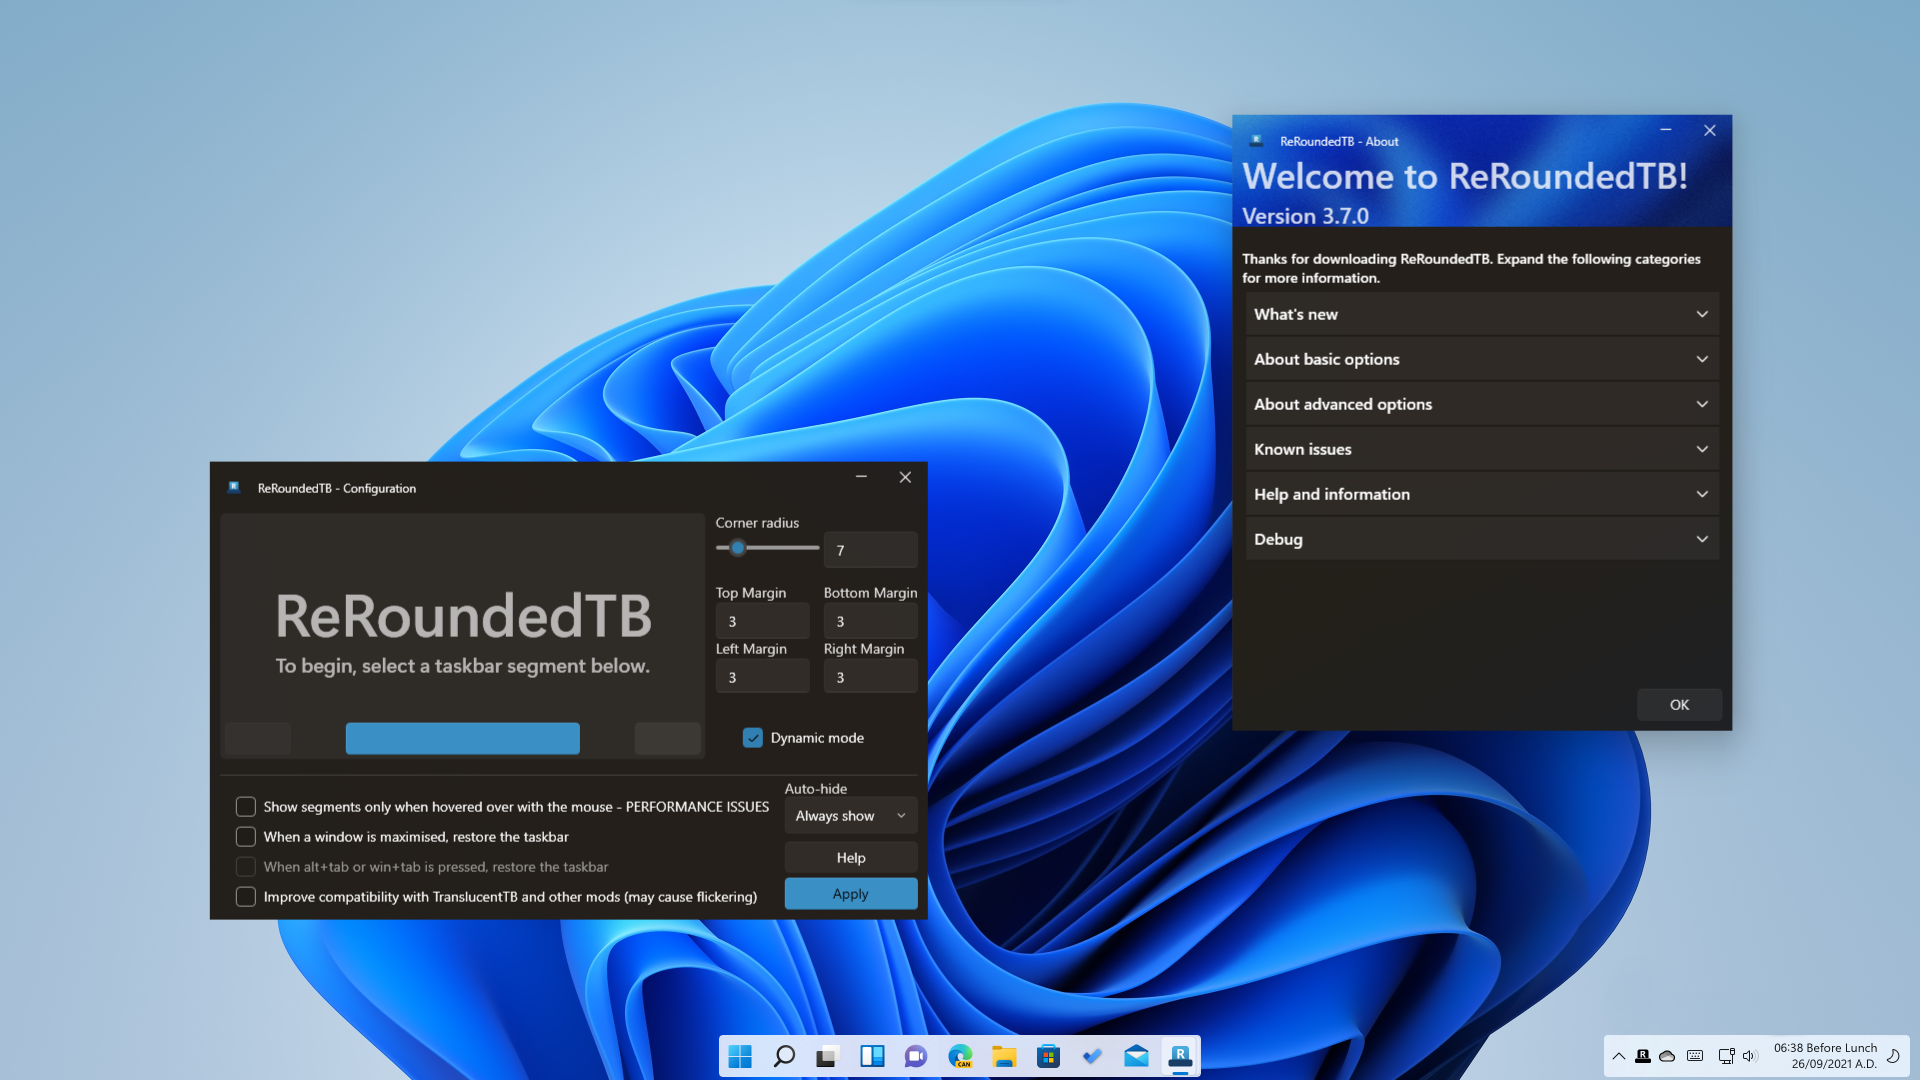
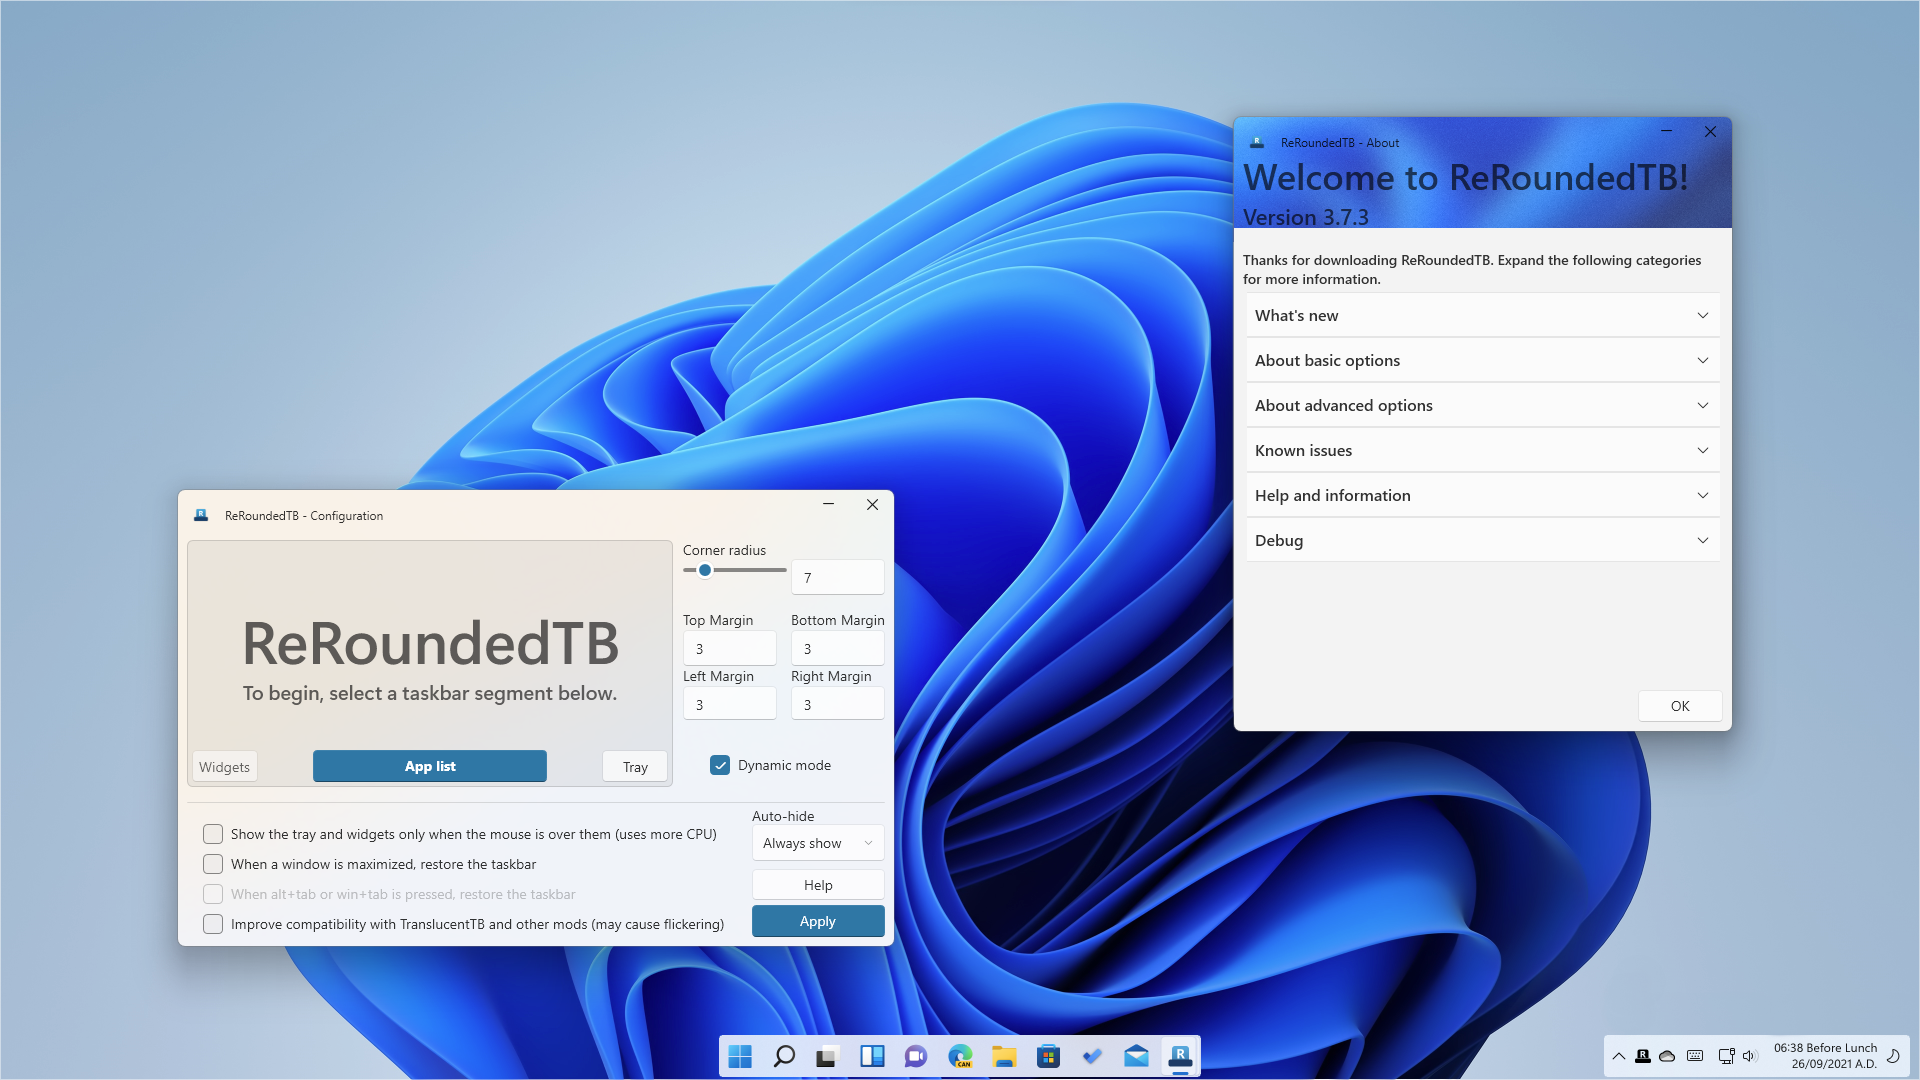
README: update screenshot to 3.7.3

diff --git a/docs/harness/smoke-2026-10-09.md b/docs/harness/smoke-2026-10-09.md
@@ -2,41 +2,41 @@
 
 Run on Windows 11 (build 26200), two monitors (2560x1440), COMODO with the CI exe allowed (uncontained: no `COMODO:DefaultSandBox:` window classes). Input was driven by scripts (synthetic mouse, SendKeys, UI Automation). Light mode unless noted. The owner's `rtb.json` was backed up and restored afterwards (hash verified); the startup shortcut was not touched.
 
-Builds, all CI-built and attested (`gh attestation verify`, exit 0): `f6dc255`, `81ab49f`, `eeb7109` (final). The failures found were fixed and retested on the build listed.
+Builds, all CI-built and attested (`gh attestation verify`, exit 0): `e06cd22`, `5d4ee21`, `69c45be` (final). The failures found were fixed and retested on the build listed.
 
 | # | Result | Build | Evidence / notes |
 |---|---|---|---|
 | 1 | Pass | all three | `gh attestation verify` exit 0 |
-| 2 | Pass | eeb7109 | Taskbar shaped; tray icon black glyph on light; UIA tooltip "ReRoundedTB - active" with no Win+F2 warning (hotkey registered); right-click menu in the specified order. Win+F2 itself not pressed (dynamic mode off) |
-| 3 | Pass | f6dc255 | Bottom margin 3→5, Apply, restart: 5 in `rtb.json` and in the UI |
-| 4 | Pass | f6dc255 | "Top margin must be a whole number from -10000 to 10000. Nothing was applied."; focus returned to Top margin; file unchanged |
-| 5 | Pass | f6dc255 | Tab: segments → corner radius → slider → margins → Dynamic → options → Auto-hide → Help → Apply (disabled box skipped). Alt+T/Alt+R/Alt+B work. Slider arrows 7→9→7, text box follows |
-| 6 | Pass | f6dc255 | Second launch exit 0, one process, settings window shown. Observation: shown behind the active window (foreground lock), not in front |
-| 7 | Pass | f6dc255 | Pause: both taskbars lose the region. Shell reports the "paused" tooltip text (the visible tooltip wasn't captured) |
-| 8 | Pass | 81ab49f | Dialog wording correct; No is the default (blue border); No: file hash unchanged; Yes: defaults saved (7/3/3/3/3, dynamic off, fill options on) and shown in the UI; taskbar reshaped. The dialog is csrss-owned (`DefaultDesktopOnly`), so it was answered with `BM_CLICK` (UIPI blocks synthetic clicks) |
-| 9 | **Fail → fixed** | eeb7109 | Before: after an Explorer restart the tray icon was gone (WPF-UI ignores `TaskbarCreated`), and Explorer replaced the region with a plain rectangle ~1 s after ReRoundedTB shaped it. After: icon back ("active", menu works); region re-asserted at 5.9 s and still rounded 25 s later |
-| 10 | Pass | 81ab49f | First close: one-time notice shown (csrss-owned, not foreground); flag saved; second close: no notice |
-| 11 | **Fail → fixed** | f6dc255, eeb7109 | Before: Tray > Close with the settings window open showed the "still running in the tray" notice and waited on it before closing. After: closes at once, both taskbars restored, no dialog |
+| 2 | Pass | 69c45be | Taskbar shaped; tray icon black glyph on light; UIA tooltip "ReRoundedTB - active" with no Win+F2 warning (hotkey registered); right-click menu in the specified order. Win+F2 itself not pressed (dynamic mode off) |
+| 3 | Pass | e06cd22 | Bottom margin 3→5, Apply, restart: 5 in `rtb.json` and in the UI |
+| 4 | Pass | e06cd22 | "Top margin must be a whole number from -10000 to 10000. Nothing was applied."; focus returned to Top margin; file unchanged |
+| 5 | Pass | e06cd22 | Tab: segments → corner radius → slider → margins → Dynamic → options → Auto-hide → Help → Apply (disabled box skipped). Alt+T/Alt+R/Alt+B work. Slider arrows 7→9→7, text box follows |
+| 6 | Pass | e06cd22 | Second launch exit 0, one process, settings window shown. Observation: shown behind the active window (foreground lock), not in front |
+| 7 | Pass | e06cd22 | Pause: both taskbars lose the region. Shell reports the "paused" tooltip text (the visible tooltip wasn't captured) |
+| 8 | Pass | 5d4ee21 | Dialog wording correct; No is the default (blue border); No: file hash unchanged; Yes: defaults saved (7/3/3/3/3, dynamic off, fill options on) and shown in the UI; taskbar reshaped. The dialog is csrss-owned (`DefaultDesktopOnly`), so it was answered with `BM_CLICK` (UIPI blocks synthetic clicks) |
+| 9 | **Fail → fixed** | 69c45be | Before: after an Explorer restart the tray icon was gone (WPF-UI ignores `TaskbarCreated`), and Explorer replaced the region with a plain rectangle ~1 s after ReRoundedTB shaped it. After: icon back ("active", menu works); region re-asserted at 5.9 s and still rounded 25 s later |
+| 10 | Pass | 5d4ee21 | First close: one-time notice shown (csrss-owned, not foreground); flag saved; second close: no notice |
+| 11 | **Fail → fixed** | e06cd22, 69c45be | Before: Tray > Close with the settings window open showed the "still running in the tray" notice and waited on it before closing. After: closes at once, both taskbars restored, no dialog |
 | 12 | Not run | n/a | Needs a debug build with a forced exception; covered at runtime in round 2 |
-| 13 | **Fail → fixed** | f6dc255, 81ab49f | Light mode measured on screen: labels ~3.1:1, heading 2.24:1, dimmed segment 4.43:1, white on brand blue 4.32:1. After: 11.8, 5.42, 5.32, 4.88. Dark: 16.4, 8.58, 7.10; accent 5.91 (black text). A live light→dark switch left the light accent with black text (4.30:1); fixed in 81ab49f and verified both ways live. The tray glyph swapped black↔white while paused (L-F5). Measured over one wallpaper only |
-| 14 | Pass | eeb7109 | No `rtb.json`: only the Help window shows; after OK the settings window shows, the taskbar is shaped, and the tray icon is present |
-| 15 | Pass | f6dc255 | Hidden window: one left-click shows it in front, menu reads "Hide ReRoundedTB" |
+| 13 | **Fail → fixed** | e06cd22, 5d4ee21 | Light mode measured on screen: labels ~3.1:1, heading 2.24:1, dimmed segment 4.43:1, white on brand blue 4.32:1. After: 11.8, 5.42, 5.32, 4.88. Dark: 16.4, 8.58, 7.10; accent 5.91 (black text). A live light→dark switch left the light accent with black text (4.30:1); fixed in 5d4ee21 and verified both ways live. The tray glyph swapped black↔white while paused (L-F5). Measured over one wallpaper only |
+| 14 | Pass | 69c45be | No `rtb.json`: only the Help window shows; after OK the settings window shows, the taskbar is shaped, and the tray icon is present |
+| 15 | Pass | e06cd22 | Hidden window: one left-click shows it in front, menu reads "Hide ReRoundedTB" |
 | 16 | N/A | n/a | Windows 10 only |
 
-Not verified: Narrator output, High Contrast mode, a second wallpaper for Mica, Windows 10, the visible tooltip text while paused. Checks 3-8, 10 and 15 ran on builds before `eeb7109`. Its changes (the `TaskbarCreated` hook and post-restart redraws) don't touch those paths (Likely, not re-run).
+Not verified: Narrator output, High Contrast mode, a second wallpaper for Mica, Windows 10, the visible tooltip text while paused. Checks 3-8, 10 and 15 ran on builds before `69c45be`. Its changes (the `TaskbarCreated` hook and post-restart redraws) don't touch those paths (Likely, not re-run).
 
 ## Addendum: round 6 builds (2026-10-09)
-Run on `fd61b70`, `c57cf7d` and `75f12df` (final code before the version bump), with the same exe hash and uncontained:
+Run on `0d6fd3c`, `7c2a460` and `56bfe28` (final code before the version bump), with the same exe hash and uncontained:
 - 100% layout identical to before the scroll wrapper; no scrollbar; Tab order unchanged.
 - Second launch brings the settings window to the front (ST-6).
 - Explorer restart: shape re-asserted, tray icon back. 20 spoofed `TaskbarCreated` broadcasts add nothing (SR6-1).
 - Accent button rest/hover/pressed measured in both themes, fresh and after live switches (audit round 6).
 - Tray Close restores both taskbars; no dialogs.
 
-The first `v3.7.2` build (`c75f683`) differs only by version number and a "What's new" line; the re-cut build was run in full below.
+The first `v3.7.2` build (`7dac699`) differs only by version number and a "What's new" line; the re-cut build was run in full below.
 
 
-## Addendum: published v3.7.2 (re-cut on `5836ade`), 2026-10-09
+## Addendum: published v3.7.2 (re-cut on `b668ec8`), 2026-10-09
 Run on a fresh copy of the zip downloaded from the release (dll identical to the copy the owner runs), uncontained (it shaped the taskbar), Windows 11, 2560x1440, Dark mode with one Light pass.
 
 | # | Result | Evidence |
@@ -60,4 +60,4 @@ Run on a fresh copy of the zip downloaded from the release (dll identical to the
 
 US-spelling text verified on screen: "When a window is maximized" checkbox (no clipping) and "when the taskbar is centered" in the About window.
 
-New finding (pre-existing, upstream since 2022, `98d8ca8`): **clicking Apply moves keyboard focus from the settings window to the taskbar.** `AutoHide(false, …)` calls `SetWindowPos(taskbar, HWND_TOPMOST, …)` without `SWP_NOACTIVATE`, which activates `Shell_TrayWnd`. Keyboard users must click or Alt+Tab back after every Apply. Not a v3.7.2 regression. **Fixed in `31ec3ed`** (adds `SWP_NOACTIVATE` to both calls), not yet released. Verified on the CI build (run 38012396205, same exe hash, uncontained): after a mouse or keyboard Apply, with auto-hide off and on, the settings window keeps the foreground and focus stays on Apply; Alt+T works straight after; the taskbar stays shaped and topmost; the work area is normal after switching auto-hide back off.
+New finding (pre-existing, upstream since 2022, `98d8ca8`): **clicking Apply moves keyboard focus from the settings window to the taskbar.** `AutoHide(false, …)` calls `SetWindowPos(taskbar, HWND_TOPMOST, …)` without `SWP_NOACTIVATE`, which activates `Shell_TrayWnd`. Keyboard users must click or Alt+Tab back after every Apply. Not a v3.7.2 regression. **Fixed in `d468463`** (adds `SWP_NOACTIVATE` to both calls), not yet released. Verified on the CI build (run 38012396205, same exe hash, uncontained): after a mouse or keyboard Apply, with auto-hide off and on, the settings window keeps the foreground and focus stays on Apply; Alt+T works straight after; the taskbar stays shaped and topmost; the work area is normal after switching auto-hide back off.

diff --git a/docs/harness/STATE.md b/docs/harness/STATE.md
@@ -25,16 +25,16 @@ Gate values: pending, passed (date), failed (date), retroactive (date).
 | M2 unsigned releases | RealCarvedArt | 2026-10-09 | 2027-04-09 | R1 in `docs/security/threat-register.md` |
 
 ## Phase 7 gate decision (2026-10-09)
-Passed. The security review of rounds 5-6 passed (no Critical/High/Medium). The UX review was a conditional pass, and its conditions were met: on-screen evidence for `fd61b70`, plus hover/pressed accent contrast fixed and measured. The remaining items are Low/Info or known limitations, listed above. M2 (unsigned releases) is accepted as R1 until 2027-04-09. The final fixes after the reviews (SR6-1/2/5, accent states) were requested by the reviewers and verified on screen. They were not re-reviewed.
+Passed. The security review of rounds 5-6 passed (no Critical/High/Medium). The UX review was a conditional pass, and its conditions were met: on-screen evidence for `0d6fd3c`, plus hover/pressed accent contrast fixed and measured. The remaining items are Low/Info or known limitations, listed above. M2 (unsigned releases) is accepted as R1 until 2027-04-09. The final fixes after the reviews (SR6-1/2/5, accent states) were requested by the reviewers and verified on screen. They were not re-reviewed.
 
 ## Deployment note
 The owner asked for a v3.7.2 release after the fixes. The harness wants a passed phase 9 gate and a rehearsed rollback first. Phase 8 (performance) and phase 9 (staging/QA) were not formally run. The 2026-10-09 release smoke test on CI builds is the QA evidence, and v3.7.1 stays downloadable as the rollback.
 
[2 lines of base64/hex data omitted]
 
[2 lines of base64/hex data omitted]
 
[2 lines of base64/hex data omitted]
 
 ## Next action
 - Run smoke check 12 (crash, debug build) and 16 (Windows 10), plus High Contrast and Narrator passes.

diff --git a/docs/security/audit-2026-10-09.md b/docs/security/audit-2026-10-09.md
@@ -150,7 +150,7 @@ Reviewed by security-reviewer and ux-reviewer: no critical, high or medium findi
 
 | ID | Status | Evidence |
 |---|---|---|
-| U15 | Accepted, change reverted | A first attempt (`4f8ae80`) created the settings window hidden with `EnsureHandle()` and registered the tray icon explicitly. The security review (H-1, High, verified against WPF `Window.cs` 2564/2864/5398) found that WPF attaches a window's content only on first Show. So `PresentationSource.FromVisual` is null and WPF-UI's `Register()` silently does nothing: a normal start would have no tray icon, and so no Pause, Reset or Close while the taskbar is reshaped. The fixes (forcing `RootVisual`, or replacing the tray library) touch framework internals that can't be runtime-tested on this machine, for a severity-4 item. So startup is back to the original show-at-0.1%-opacity-then-hide path, with the reason recorded in `OnSourceInitialized`. Kept: the popup gating uses `IsVisible` plus a loading flag (UX review R2). Moot after the revert: UX R1 (the theme watcher hooks the window because it is shown at startup) and security L-2. |
+| U15 | Accepted, change reverted | A first attempt (`0217e10`) created the settings window hidden with `EnsureHandle()` and registered the tray icon explicitly. The security review (H-1, High, verified against WPF `Window.cs` 2564/2864/5398) found that WPF attaches a window's content only on first Show. So `PresentationSource.FromVisual` is null and WPF-UI's `Register()` silently does nothing: a normal start would have no tray icon, and so no Pause, Reset or Close while the taskbar is reshaped. The fixes (forcing `RootVisual`, or replacing the tray library) touch framework internals that can't be runtime-tested on this machine, for a severity-4 item. So startup is back to the original show-at-0.1%-opacity-then-hide path, with the reason recorded in `OnSourceInitialized`. Kept: the popup gating uses `IsVisible` plus a loading flag (UX review R2). Moot after the revert: UX R1 (the theme watcher hooks the window because it is shown at startup) and security L-2. |
 | L-F5 | Fixed (not runtime-verified) | The window hook calls `TrayIconCheck()` on `WM_SETTINGCHANGE`, so the tray icon follows a light/dark switch while paused. The message isn't marked handled. |
 | U12 | Fixed (Win10 untested) | The invisible "Click me!" hotspot over the diagram is now a visible, focusable "Split mode help" button below the diagram text. It shows only in Windows 10 split mode. It is the first stop in the diagram's tab group, because it sits above the segment buttons (UX review R3). |
 | U11 | Fixed (earlier rounds) | The Infobox OK button is 85x32 (round 2). The other targets are at least 24 px. |
@@ -180,7 +180,7 @@ Full record: `docs/harness/smoke-2026-10-09.md`.
 
 ## Remediation round 6: open items and round 5-6 reviews (2026-10-09)
 
-Independent reviews of `1a14dc2..fd61b70`: security **PASS** (2 Low, 6 Info); UX **conditional pass** (fd61b70 needed on-screen evidence; hover/pressed accent contrast). The conditions were met below. Runtime evidence is from CI-built, attested, uncontained builds (`fd61b70`, `c57cf7d`, and `75f12df`, the final code), measured on screen.
+Independent reviews of `0d73a5f..0d6fd3c`: security **PASS** (2 Low, 6 Info); UX **conditional pass** (0d6fd3c needed on-screen evidence; hover/pressed accent contrast). The conditions were met below. Runtime evidence is from CI-built, attested, uncontained builds (`0d6fd3c`, `7c2a460`, and `56bfe28`, the final code), measured on screen.
 
 | ID | Status | Evidence |
 |---|---|---|
